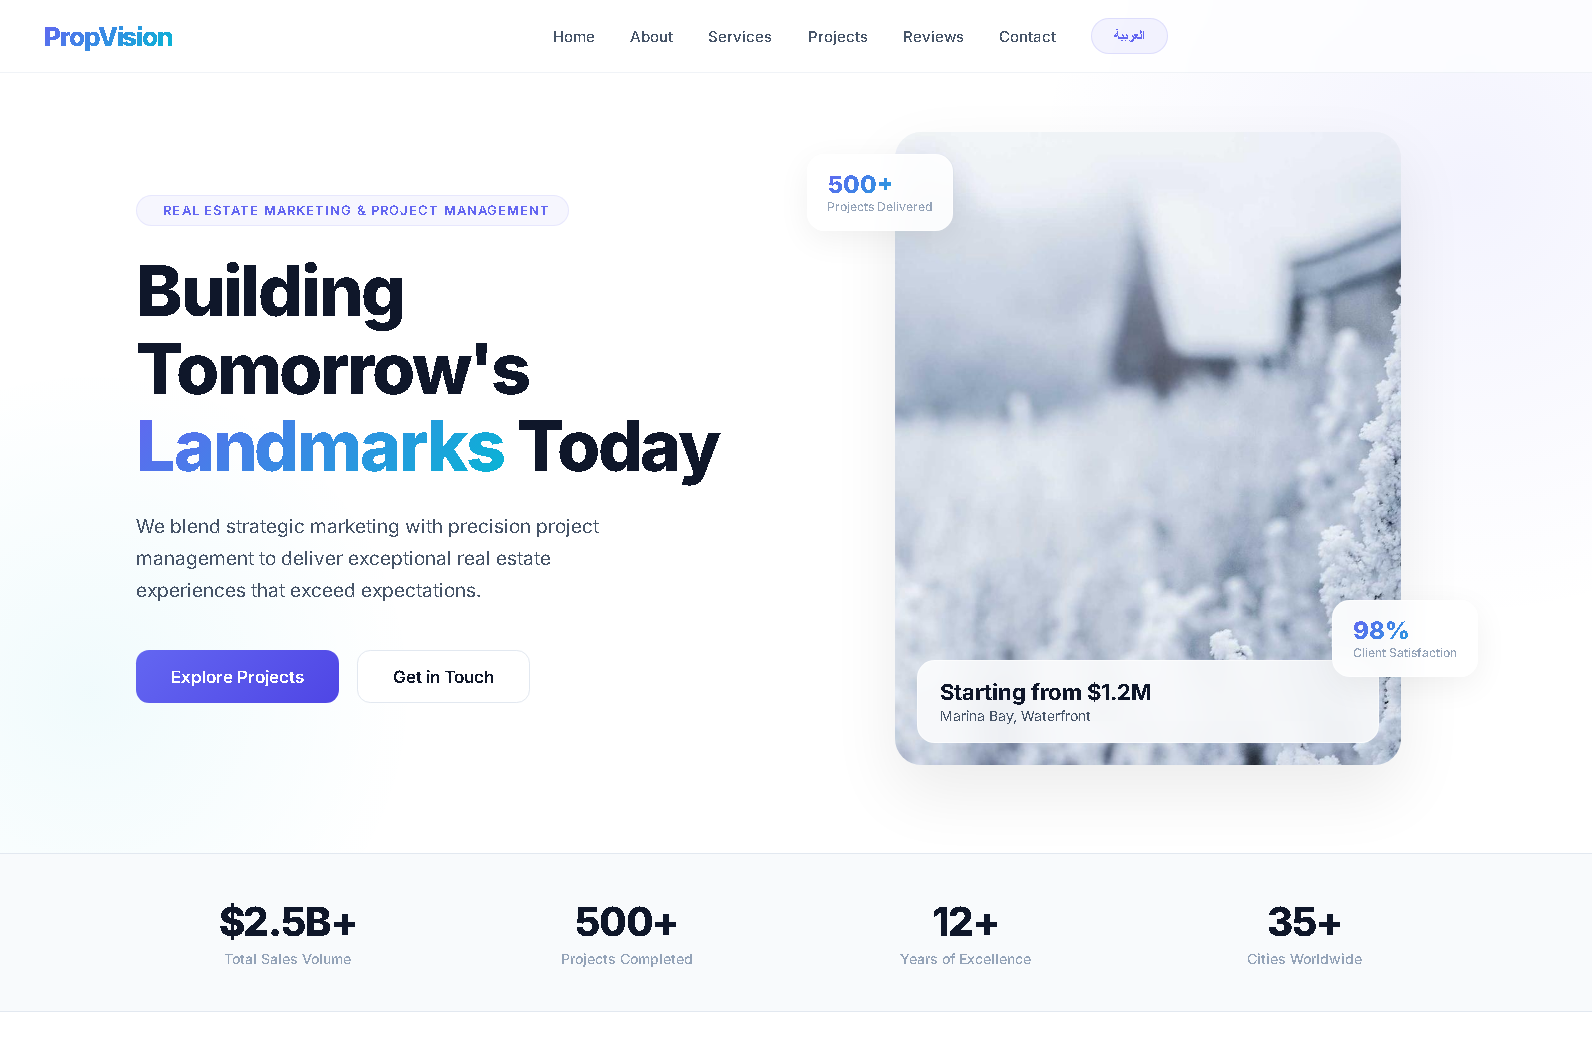
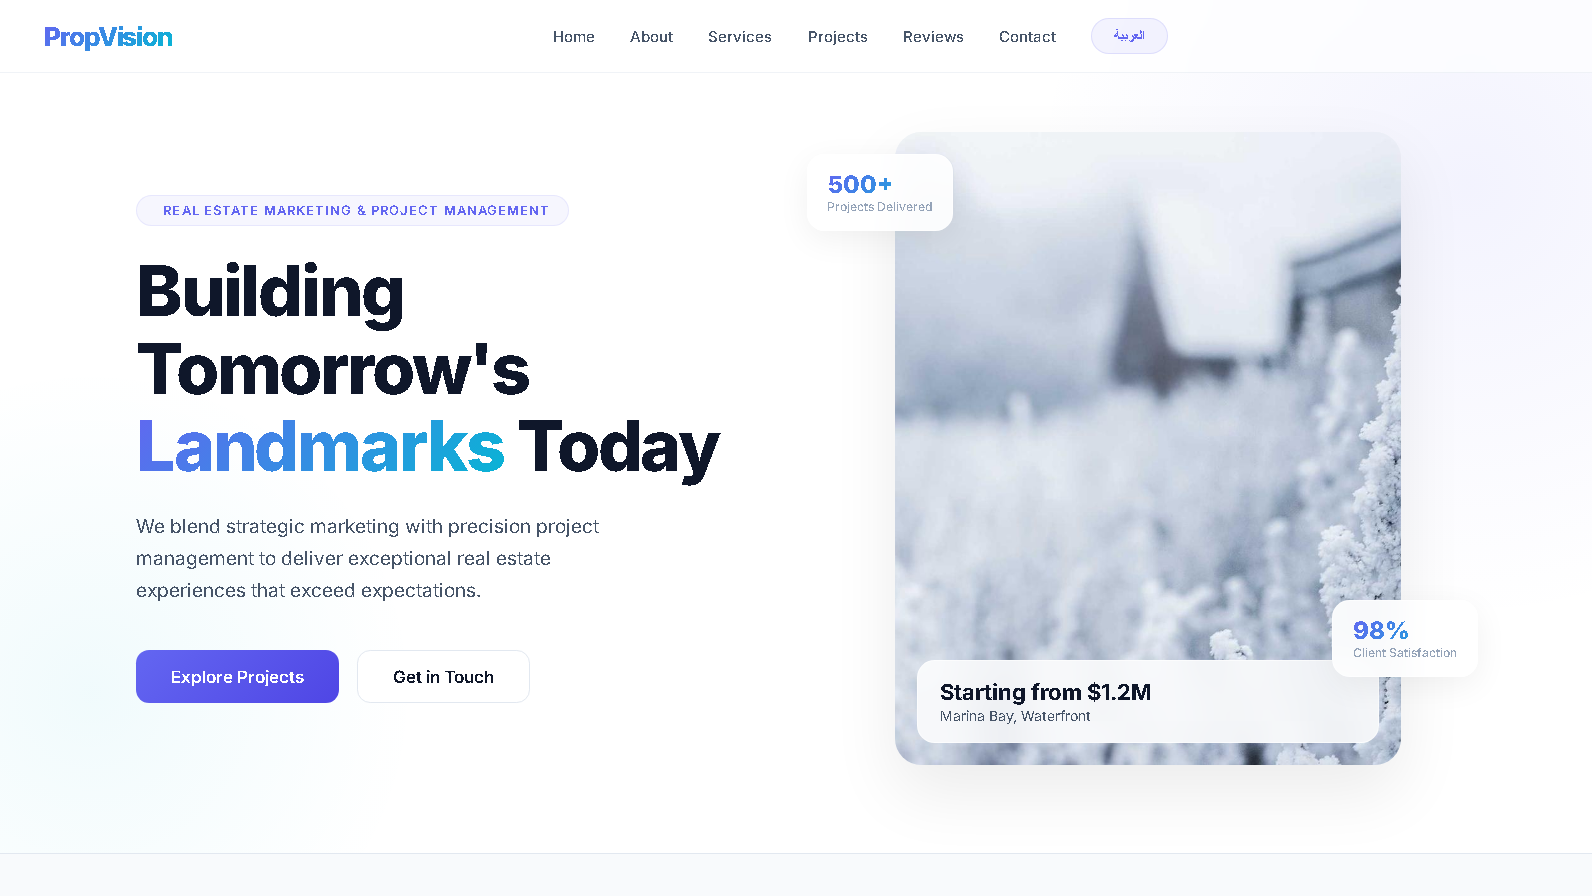
Add files via upload

diff --git a/index.html b/index.html
@@ -180,6 +180,25 @@
 
       <div class="project-card" data-category="web">
         <div class="card-img">
+          <img src="photos/5.png" alt="MediCare - Modern Clinic"/>
+          <div class="card-overlay">
+            <span class="card-category">Website</span>
+          </div>
+        </div>
+        <div class="card-body">
+          <h3>MediCare - Modern Clinic</h3>
+          <p>"Multi-page React clinic website with routing"</p>
+          <div class="card-tags">
+            <span>HTML</span><span>CSS</span><span>JavaScript</span><span>React</span><span>Multi-Page</span>
+          </div>
+          <a href="https://clinic-website370.netlify.app/" class="btn btn-primary card-btn" target="_blank">
+            <svg xmlns="http://www.w3.org/2000/svg" width="14" height="14" viewBox="0 0 24 24" fill="none" stroke="currentColor" stroke-width="2.5" stroke-linecap="round" stroke-linejoin="round"><path d="M18 13v6a2 2 0 0 1-2 2H5a2 2 0 0 1-2-2V8a2 2 0 0 1 2-2h6"/><polyline points="15 3 21 3 21 9"/><line x1="10" y1="14" x2="21" y2="3"/></svg> View Project
+          </a>
+        </div>
+      </div>
+
+      <div class="project-card" data-category="web">
+        <div class="card-img">
           <img src="photos/1.png" alt="PropVision Real Estate"/>
           <div class="card-overlay">
             <span class="card-category">Website</span>
@@ -256,7 +275,7 @@
 
       <div class="project-card" data-category="app">
         <div class="card-img">
-          <img src="https://images.unsplash.com/photo-1611162617474-5b21e879e113?w=600&q=80" alt="Dashboard App"/>
+          <img src="photos/4.png" alt="Dashboard App"/>
           <div class="card-overlay">
             <span class="card-category">Web App</span>
           </div>
@@ -265,9 +284,9 @@
           <h3>Admin Dashboard</h3>
           <p>A modern analytics dashboard with charts, data tables, dark mode, and real-time-style widgets.</p>
           <div class="card-tags">
-            <span>HTML</span><span>CSS</span><span>JavaScript</span>
+            <span>HTML</span><span>CSS</span><span>JavaScript</span><span>React</span>
           </div>
-          <a href="https://admin-dashboard-370.netlify.app/" class="btn btn-primary card-btn" target="_blank">
+          <a href="https://abdelaziz-7.github.io/admin-dashboard/" class="btn btn-primary card-btn" target="_blank">
             <svg xmlns="http://www.w3.org/2000/svg" width="14" height="14" viewBox="0 0 24 24" fill="none" stroke="currentColor" stroke-width="2.5" stroke-linecap="round" stroke-linejoin="round"><path d="M18 13v6a2 2 0 0 1-2 2H5a2 2 0 0 1-2-2V8a2 2 0 0 1 2-2h6"/><polyline points="15 3 21 3 21 9"/><line x1="10" y1="14" x2="21" y2="3"/></svg> View Project
           </a>
         </div>

diff --git a/style.css b/style.css
@@ -638,7 +638,7 @@ input, textarea { font-family: inherit; }
 .card-img {
   position: relative;
   overflow: hidden;
-  height: 220px;
+  height: 230px;
 }
 
 .card-img img {
